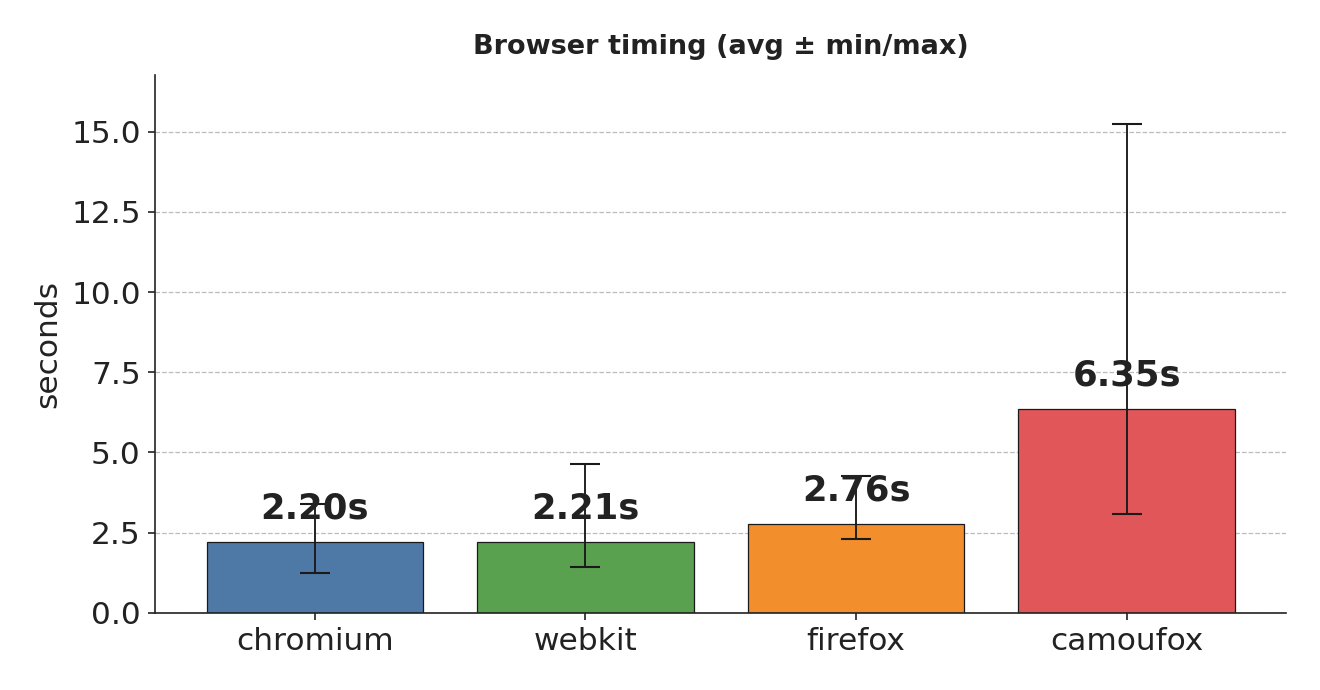
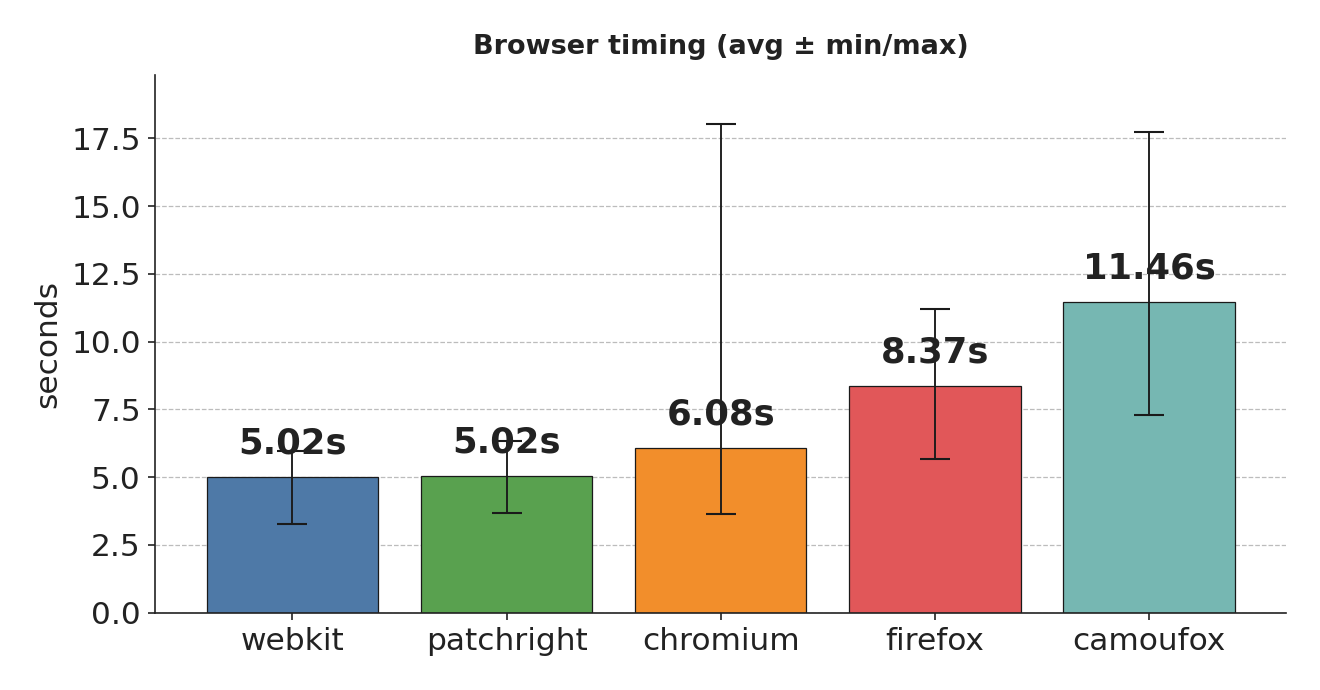
add support patchright and fix docs build workflow

diff --git a/human_requests/browser_master.py b/human_requests/browser_master.py
@@ -3,15 +3,16 @@ from __future__ import annotations
 from pathlib import Path
 from typing import Any, Literal, cast
 
-from playwright.async_api import Browser, BrowserContext, Playwright, StorageState, async_playwright
+from playwright.async_api import Browser, BrowserContext, StorageState, async_playwright
 
-Engine = Literal["chromium", "firefox", "webkit", "camoufox"]
+Engine = Literal["chromium", "firefox", "webkit", "camoufox", "patchright"]
 PlaywrightEngine = Literal["chromium", "firefox", "webkit"]
+Family = Literal["playwright", "camoufox", "patchright"]
 
 
 class BrowserMaster:
     """
-    Стартует движок (Playwright или Camoufox) и отдаёт ИМЕННО Browser.
+    Стартует движок (Playwright / Patchright / Camoufox) и отдаёт ИМЕННО Browser.
     - Persistent context не используется.
     - Никакой синхронизации cookies/localStorage — это делает Session.
     - start() идемпотентный: пересоздаёт только то, что реально поменялось.
@@ -30,22 +31,29 @@ class BrowserMaster:
         self.stealth = stealth
 
         # текущее состояние (кэш)
-        self._family_used: Literal["playwright", "camoufox"] | None = None
-        self._engine_used: PlaywrightEngine | None = None
+        self._family_used: Family | None = None
+        self._engine_used: PlaywrightEngine | None = None  # только для обычного Playwright
         self._headless_used: bool | None = None
         self._stealth_used: bool | None = None
 
         # внутренние хендлы
-        self._pw: Playwright | None = None  # движок Playwright (если активен)
-        self._stealth_cm: Any | None = None  # stealth CM, если использовался
+        self._pw: Any | None = None  # Playwright/ Patchright runtime (drop-in API)
+        self._stealth_cm: Any | None = None  # stealth CM, если использовался (только Playwright)
         self._browser: Browser | None = None  # всегда Browser, без union
         self._camoufox_cm: Any | None = None  # AsyncCamoufox (рантайм CM)
 
+        # несовместимости
         if self._engine == "camoufox" and self._stealth_flag:
             raise RuntimeError(
                 "Stealth несовместим с engine='camoufox'. "
                 "Отключите stealth или используйте chromium/firefox/webkit."
             )
+        if self._engine == "patchright" and self._stealth_flag:
+            raise RuntimeError(
+                "Stealth несовместим с engine='patchright' (в патчах уже есть stealth)."
+            )
+
+    # ────────────────────────── свойства ──────────────────────────
 
     @property
     def engine(self) -> Engine:
@@ -76,28 +84,32 @@ class BrowserMaster:
     async def start(self) -> None:
         """
         Идемпотентный запуск:
-        - если семья меняется (camoufox ↔ playwright) — селективно закрываем старую
-          и поднимаем новую;
-        - в PW ветке: смена stealth → пересоздаём PW-движок + браузер;
+        - если семья меняется (camoufox ↔ playwright ↔ patchright)
+          селективно закрываем старую и поднимаем новую;
+        - Playwright-ветка: смена stealth → пересоздаём PW-движок + браузер;
           смена engine/headless → перелончим только браузер;
-        - в camoufox ветке: смена headless → перелончим camoufox стек.
+        - Camoufox / Patchright: смена headless → перелончим стек.
         """
-        desired_family: Literal["playwright", "camoufox"] = (
-            "camoufox" if self._engine == "camoufox" else "playwright"
+        desired_family: Family = (
+            "camoufox"
+            if self._engine == "camoufox"
+            else "patchright" if self._engine == "patchright" else "playwright"
         )
 
         # 1) Смена семьи
         if self._family_used and self._family_used != desired_family:
-            # Закрыть прежнее семейство
-            await self.close(camoufox=True, playwright=True)
-
+            # Закрыть прежнее семейство (селективно)
+            if self._family_used == "camoufox":
+                await self.close(camoufox=True, playwright=True)  # закрыть всё на всякий случай
+            elif self._family_used in ("playwright", "patchright"):
+                await self.close(camoufox=True, playwright=True)
             # сброс кеша
             self._family_used = None
             self._engine_used = None
             self._headless_used = None
             self._stealth_used = None
 
-        # 2) Ветка camoufox
+        # 2) Ветка Camoufox
         if desired_family == "camoufox":
             # если уже camoufox активен, но headless изменился — перелончим camoufox стек
             if self._family_used == "camoufox" and self._headless_used != self._headless:
@@ -107,7 +119,6 @@ class BrowserMaster:
                 self._camoufox_cm = None
 
             if self._browser is None:
-                # ленивый импорт рантаймом
                 try:
                     from camoufox.async_api import AsyncCamoufox as AsyncCamoufoxRT
                 except Exception:
@@ -121,7 +132,6 @@ class BrowserMaster:
                 )
                 browser_obj = await self._camoufox_cm.__aenter__()
                 if not isinstance(browser_obj, Browser):
-                    # На всякий случай — но при persistent_context=False должен быть Browser
                     raise RuntimeError("camoufox вернул не Browser в неперсистентном режиме.")
                 self._browser = browser_obj
 
@@ -130,65 +140,96 @@ class BrowserMaster:
             self._engine_used = None
             self._headless_used = self._headless
             self._stealth_used = False
-        elif desired_family == "playwright":
-            # 3) Ветка Playwright
-            # 3.1) при необходимости пересоздать PW-движок (stealth сменился или ещё не поднят)
-            need_pw_restart = self._pw is None or (
-                self._family_used == "playwright" and (self._stealth_used != self._stealth_flag)
-            )
-            if need_pw_restart:
-                await self.close(camoufox=False, playwright=True)  # мягко закрыть PW-уровень
-                # (пере)поднять PW
-                if self._stealth_flag:
-                    try:
-                        from playwright_stealth import Stealth  # type: ignore[import-untyped]
-                    except Exception:
-                        raise RuntimeError(
-                            "Запрошен stealth=True, но пакет 'playwright-stealth' не установлен.\n"
-                            "Установите: pip install playwright-stealth"
-                        )
-                    self._stealth_cm = Stealth().use_async(async_playwright())
-                    self._pw = await self._stealth_cm.__aenter__()
-                else:
-                    self._pw = await async_playwright().__aenter__()
+            return
 
-            # 3.2) перелончить браузер, если нужно
-            need_browser_relaunch = (
-                need_pw_restart
-                or self._browser is None
-                or self._engine_used != self._engine
-                or self._headless_used != self._headless
-                or self._family_used != "playwright"
-            )
-            if need_browser_relaunch:
-                if self._browser is not None:
-                    await self._browser.close()
-                    self._browser = None
-                assert self._pw is not None
-                launcher = getattr(self._pw, self._engine)
+        # 3) Ветка Patchright (только Chromium)
+        if desired_family == "patchright":
+            # headless сменился → перелончим стек Patchright
+            if self._family_used == "patchright" and self._headless_used != self._headless:
+                await self.close(camoufox=False, playwright=True)  # PW-like стек
+                self._family_used = None
+                self._browser = None
+                self._pw = None
+
+            if self._browser is None:
+                try:
+                    # drop-in замена playwright
+                    from patchright.async_api import (
+                        async_playwright as async_patchright,
+                    )
+                except Exception:
+                    raise RuntimeError(
+                        "Запрошен engine='patchright', но пакет 'patchright' не установлен. "
+                        "Установите: pip install patchright"
+                    )
+                self._pw = await async_patchright().__aenter__()  # API идентичен Playwright
+                launcher = self._pw.chromium  # только chromium поддерживается
                 self._browser = await launcher.launch(headless=self._headless)
 
             # обновить кеш
-            self._family_used = "playwright"
-            self._engine_used = cast(PlaywrightEngine, self._engine)
+            self._family_used = "patchright"
+            self._engine_used = "chromium"  # для консистентности
             self._headless_used = self._headless
-            self._stealth_used = self._stealth_flag
+            self._stealth_used = False
+            return
+
+        # 4) Ветка обычного Playwright
+        # 4.1) при необходимости пересоздать PW-движок (stealth сменился или ещё не поднят)
+        need_pw_restart = self._pw is None or (
+            self._family_used == "playwright" and (self._stealth_used != self._stealth_flag)
+        )
+        if need_pw_restart:
+            await self.close(camoufox=False, playwright=True)  # мягко закрыть PW-уровень
+            # (пере)поднять PW
+            if self._stealth_flag:
+                try:
+                    from playwright_stealth import Stealth  # type: ignore[import-untyped]
+                except Exception:
+                    raise RuntimeError(
+                        "Запрошен stealth=True, но пакет 'playwright-stealth' не установлен.\n"
+                        "Установите: pip install playwright-stealth"
+                    )
+                self._stealth_cm = Stealth().use_async(async_playwright())
+                self._pw = await self._stealth_cm.__aenter__()
+            else:
+                self._pw = await async_playwright().__aenter__()
+
+        # 4.2) перелончить браузер, если нужно
+        need_browser_relaunch = (
+            need_pw_restart
+            or self._browser is None
+            or self._engine_used != self._engine
+            or self._headless_used != self._headless
+            or self._family_used != "playwright"
+        )
+        if need_browser_relaunch:
+            if self._browser is not None:
+                await self._browser.close()
+                self._browser = None
+            assert self._pw is not None
+            launcher = getattr(self._pw, self._engine)
+            self._browser = await launcher.launch(headless=self._headless)
+
+        # обновить кеш
+        self._family_used = "playwright"
+        self._engine_used = cast(PlaywrightEngine, self._engine)
+        self._headless_used = self._headless
+        self._stealth_used = self._stealth_flag
 
     async def close(self, *, camoufox: bool = True, playwright: bool = True) -> None:
         """
         Селективное закрытие стеков.
         - camoufox=True: закрывает Browser (если активная семья camoufox) и camoufox CM.
-        - playwright=True: закрывает Browser (если активная семья playwright),
-          затем PW (stop) и stealth CM.
+        - playwright=True: закрывает Browser (если активная семья playwright ИЛИ patchright),
+          затем PW/ Patchright (stop) и stealth CM (если был).
         """
         # Сначала закрываем Browser, чтобы не оставлять детей движка.
-        if self._browser is not None:
-            if self._family_used == "camoufox" and camoufox:
-                await self._browser.close()
-                self._browser = None
-            elif self._family_used == "playwright" and playwright:
-                await self._browser.close()
-                self._browser = None
+        if self._browser is not None and (
+            (self._family_used == "camoufox" and camoufox)
+            or (self._family_used in ("playwright", "patchright") and playwright)
+        ):
+            await self._browser.close()
+            self._browser = None
 
         # Закрыть camoufox CM
         if camoufox and self._camoufox_cm is not None:
@@ -198,9 +239,9 @@ class BrowserMaster:
                 self._family_used = None
                 self._headless_used = None
 
-        # Закрыть Playwright (stealth/обычный)
+        # Закрыть Playwright/ Patchright (stealth/обычный)
         if playwright:
-            # Сначала закрыть stealth CM (если был), он же закрывает внутри свой PW
+            # Сначала закрыть stealth CM (если был) — он закрывает и свой PW
             if self._stealth_cm is not None:
                 await self._stealth_cm.__aexit__(None, None, None)
                 self._stealth_cm = None
@@ -211,9 +252,10 @@ class BrowserMaster:
                     self._headless_used = None
                     self._stealth_used = None
             elif self._pw is not None:
+                # И у Playwright, и у Patchright есть .stop()
                 await self._pw.stop()
                 self._pw = None
-                if self._family_used == "playwright":
+                if self._family_used in ("playwright", "patchright"):
                     self._family_used = None
                     self._engine_used = None
                     self._headless_used = None

diff --git a/tests/sannysoft/collect_antibot_stats.py b/tests/sannysoft/collect_antibot_stats.py
@@ -36,7 +36,8 @@ def env_list(name: str, default_csv: str) -> list[str]:
 
 
 SANNY_URL = os.getenv("SANNYSOFT_URL", "https://bot.sannysoft.com/")
-BROWSERS = env_list("BROWSERS", "firefox,chromium,webkit,camoufox")
+BROWSERS = env_list("BROWSERS", "firefox,chromium,webkit,camoufox,patchright")
+BROWSERS_UNSUPPORT_STEALTH = ["camoufox", "patchright"]
 STEALTH_OPS = env_list("STEALTH_OPS", "stealth,base")
 MODES = env_list("MODES", "goto,render")
 HEADLESS = os.getenv("HEADLESS", "false").lower() in {"1", "true", "yes", "y"}
@@ -55,7 +56,7 @@ async def _run_once(browser: str, stealth: str, mode: str) -> tuple[set[str], fl
       - множество упавших проверок (имена)
       - elapsed (сек) на полный цикл загрузки и парсинга
     """
-    if browser == "camoufox" and stealth == "stealth":
+    if browser in BROWSERS_UNSUPPORT_STEALTH and stealth == "stealth":
         return set(), 0.0  # несовместимо — пропускаем без времени
 
     cfg = ImpersonationConfig(sync_with_engine=True)
@@ -99,7 +100,7 @@ async def gather_stats(
     total_attempts = 0
     for b in browsers:
         for s in stealth_ops:
-            if b == "camoufox" and s == "stealth":
+            if b in BROWSERS_UNSUPPORT_STEALTH and s == "stealth":
                 continue
             total_attempts += runs * len(modes)
 
@@ -121,7 +122,7 @@ async def gather_stats(
         for _ in range(runs):
             for stealth in stealth_ops:
                 for mode in modes:
-                    if browser == "camoufox" and stealth == "stealth":
+                    if browser in BROWSERS_UNSUPPORT_STEALTH and stealth == "stealth":
                         continue
 
                     failed, elapsed = await _run_once(browser, stealth, mode)
@@ -247,7 +248,7 @@ def main() -> None:
         "--browsers",
         type=str,
         default=",".join(BROWSERS),
-        help="Список браузеров через запятую (firefox,chromium,webkit,camoufox).",
+        help="Список браузеров через запятую (firefox,chromium,webkit,camoufox,patchright).",
     )
     ap.add_argument(
         "--stealth",

diff --git a/tests/sannysoft/test_browser_antibot.py b/tests/sannysoft/test_browser_antibot.py
@@ -15,7 +15,8 @@ from tests.sannysoft.tool import (
 
 # ---------------------------------------------------------  settings
 SANNY_URL = os.getenv("SANNYSOFT_URL", "https://bot.sannysoft.com/")
-BROWSERS = ("firefox", "chromium", "webkit", "camoufox")
+BROWSERS = ("firefox", "chromium", "webkit", "camoufox", "patchright")
+BROWSERS_UNSUPPORT_STEALTH = ("camoufox", "patchright")
 STEALTH_OPS = ("stealth", "base")  # включён playwright-stealth или нет
 HEADLESS = False
 
@@ -39,8 +40,8 @@ async def test_antibot_matrix(browser: str, stealth: str, mode: str):
     Один элемент матрицы.  Формат имени теста в отчёте Py-test:
         test_antibot_matrix[chromium-stealth-goto], к примеру.
     """
-    if browser == "camoufox" and stealth == "stealth":
-        pytest.skip("playwright_stealth=True is incompatible with browser='camoufox'")
+    if browser in BROWSERS_UNSUPPORT_STEALTH and stealth == "stealth":
+        pytest.skip(f"playwright_stealth=True is incompatible with browser='{browser}'")
 
     cfg = ImpersonationConfig(sync_with_engine=True)
     session = Session(
@@ -66,6 +67,10 @@ async def test_antibot_matrix(browser: str, stealth: str, mode: str):
     fails = select_unexpected_failures(browser, stealth, result, ANTI_ERROR)
 
     if fails:
-        matrix_tag = f"{browser}/{mode}" if browser == "camoufox" else f"{browser}/{stealth}/{mode}"
+        matrix_tag = (
+            f"{browser}/{mode}"
+            if browser in BROWSERS_UNSUPPORT_STEALTH
+            else f"{browser}/{stealth}/{mode}"
+        )
         fail_list = ", ".join(fails)
         pytest.fail(f"[{matrix_tag}] не прошли проверки: {fail_list}", pytrace=False)

diff --git a/human_requests/session.py b/human_requests/session.py
@@ -34,7 +34,7 @@ from .abstraction.cookies import CookieManager
 from .abstraction.http import URL, HttpMethod
 from .abstraction.request import Request
 from .abstraction.response import Response
-from .browser_master import BrowserMaster
+from .browser_master import BrowserMaster, Engine
 from .impersonation import ImpersonationConfig
 from .tools.helper_tools import (
     build_storage_state_for_context,
@@ -59,7 +59,7 @@ class Session:
         *,
         timeout: float = 15.0,
         headless: bool = True,
-        browser: Literal["chromium", "firefox", "webkit", "camoufox"] = "chromium",
+        browser: Engine = "chromium",
         spoof: ImpersonationConfig | None = None,
         playwright_stealth: bool = True,
         page_retry: int = 2,
@@ -78,7 +78,7 @@ class Session:
 
         self.timeout: float = timeout
         self.headless: bool = headless
-        self.browser_name: Literal["chromium", "firefox", "webkit", "camoufox"] = browser
+        self.browser_name: Engine = browser
         self.spoof: ImpersonationConfig = spoof or ImpersonationConfig()
         self.playwright_stealth: bool = bool(playwright_stealth)
         self.page_retry: int = int(page_retry)

diff --git a/human_requests/impersonation.py b/human_requests/impersonation.py
@@ -15,6 +15,7 @@ from curl_cffi import requests as cffi_requests
 _ALL_PROFILES: list[str] = sorted(get_args(cffi_requests.impersonate.BrowserTypeLiteral))
 _ENGINE_FAM = {
     "chromium": "chrome",
+    "patchright": "chrome",
     "edge": "chrome",
     "opera": "chrome",
     "yandex": "chrome",
